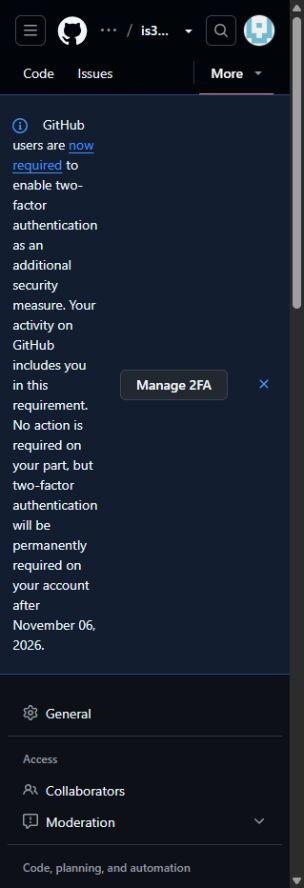
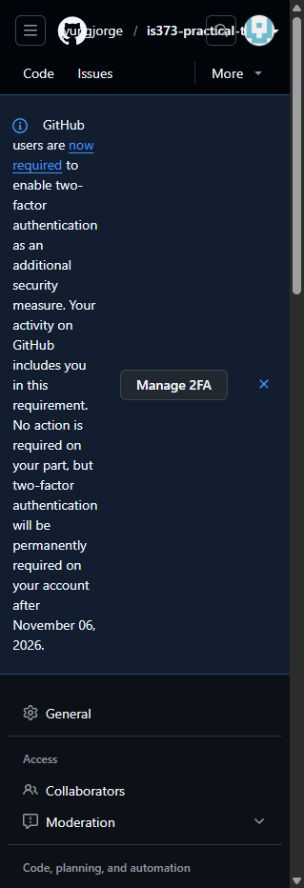
Document verified QA and production deployments with practical test evidence

Changed region(s): [[0.2072, 0.0304, 0.8882, 0.1216], [0.9474, 0.3345, 1.0, 0.3649]]

diff --git a/README.md b/README.md
@@ -24,7 +24,10 @@ does not make the image public.
 
 ## Test Evidence
 
-Replace these placeholders only after observing real results:
+Verified on October 8, 2026. QA was deployed first, then merged into main and
+promoted to production. Both health endpoints returned `{"status":"ok"}` over
+HTTPS with normal certificate verification. The QA test marker is present in
+both environments after promotion.
 
 Repository setup evidence: [public repository](docs/evidence/public-repository.png)
 and [configured secret names](docs/evidence/github-secrets-configured.png).
@@ -34,17 +37,23 @@ The first [deployment workflow](https://github.com/yungjorge/is373-practical-tes
 passed validation, Docker build, and GHCR push, then stopped because deployment
 credentials were not yet configured. This is not a successful deployment.
 
-- Successful QA GitHub Actions run URL: **TODO**
-- Successful production GitHub Actions run URL: **TODO**
-- GitHub Container Registry package URL: [public GHCR package](https://github.com/users/yungjorge/packages/container/package/is373-practical-test), [published production image evidence](docs/evidence/ghcr-production-image.png). Image `prod-a63aeda26a1d34c5af383faf854cea6254d073f2` was published; deployment remains pending.
-- QA deployed commit/tag (`qa-COMMIT_SHA`): **TODO**
-- Production deployed commit/tag (`prod-COMMIT_SHA`): **TODO**
-- QA screenshot showing HTTPS URL: **TODO**
-- Production screenshot showing HTTPS URL: **TODO**
-- SSH-key login screenshot showing non-root username: screenshot **TODO**; [agent-observed key login as jorge](docs/evidence/ssh-access.txt).
-- sshd effective configuration screenshot: [user-supplied effective settings](docs/evidence/ssh-effective-settings.png), showing root/password login disabled and public-key authentication enabled.
-- Root-login rejection screenshot: screenshot **TODO**; [agent-observed root rejection](docs/evidence/ssh-access.txt).
-- QA/production container isolation evidence: **TODO**
+- Successful QA workflow: [run 37821482615](https://github.com/yungjorge/is373-practical-test/actions/runs/37821482615), [screenshot](docs/evidence/qa-workflow-success.png).
+- Successful production workflow: [run 37822058643](https://github.com/yungjorge/is373-practical-test/actions/runs/37822058643), [screenshot](docs/evidence/production-workflow-success.png).
+- GHCR package: [public package](https://github.com/users/yungjorge/packages/container/package/is373-practical-test), [both deployed tags](docs/evidence/ghcr-deployed-tags.png).
+- QA deployed commit: `e30cc9cdfa411ce4ba831852ae342cfc3200552d`; image: `ghcr.io/yungjorge/is373-practical-test:qa-e30cc9cdfa411ce4ba831852ae342cfc3200552d`.
+- Production deployed commit: `f8567e855891bd2e87fbf821755bae98921640fe`; image: `ghcr.io/yungjorge/is373-practical-test:prod-f8567e855891bd2e87fbf821755bae98921640fe`.
+- QA HTTPS page: [live QA](https://qa.104-248-208-29.nip.io), [screenshot](docs/evidence/qa-https.png).
+- Production HTTPS page: [live production](https://104-248-208-29.nip.io), [screenshot](docs/evidence/production-https.png).
+- Non-root SSH: [user-supplied jorge session screenshot](docs/evidence/ssh-effective-settings.png), [agent-observed key login](docs/evidence/ssh-access.txt), [bootstrap verification](docs/evidence/server-bootstrap.txt).
+- Effective sshd configuration: [user-supplied screenshot](docs/evidence/ssh-effective-settings.png), showing root/password login disabled and public-key authentication enabled.
+- Root SSH rejection: [observed rejection transcript](docs/evidence/ssh-access.txt), [screenshot of the recorded transcript](docs/evidence/ssh-observed-transcript.png). This screenshot shows the evidence file, not a live terminal.
+- Container isolation: [QA ID unchanged during production deployment](docs/evidence/service-isolation.txt), [healthy containers, non-root runtime, separate networks, no published port 3000](docs/evidence/deployed-containers.txt).
+- HTTPS certificates: [certificate subjects, Let's Encrypt issuers, and validity dates](docs/evidence/https-certificates.txt).
+
+Source pushes run lint, types, formatting, browser tests, Next.js build, Docker
+build, and GHCR publication before SSH deployment. Any failure stops deployment.
+Main's README/docs-only pushes do not redeploy the application, so the recorded
+image tags remain the versions actually verified above.
 
 ```sh
 ssh USER@SERVER
@@ -70,7 +79,7 @@ ssh -o BatchMode=yes -o PreferredAuthentications=publickey -i ~/.ssh/YOUR_ADMIN_
 Capture `Permission denied (publickey)` and exit status 255, then show successful
 non-root login. A connection timeout does not prove rejection. Follow the
 [guide](docs/cicd-deployment.md#evidence) for the remaining verification commands.
-These entries are placeholders, not claims of successful deployment.
+Evidence distinguishes user-supplied screenshots from agent-observed results.
 
 Your first project in Content Management Systems is to begin building a personal web presence. Use AI to help develop it, Docker to run it consistently, and a discovery process to decide what it should communicate. You should be able to explain both your choices and the work behind them.
 

diff --git a/docs/cicd-deployment.md b/docs/cicd-deployment.md
@@ -241,10 +241,17 @@ SERVER_HOST, SERVER_USER, DOMAIN, and ACME_EMAIL are configured in repository se
 All six repository secrets are now present, including the user-entered private
 key and console-verified server host key. Key login as jorge was verified and a
 root login attempt was rejected. The user-supplied effective-settings screenshot
-is saved under docs/evidence. Server bootstrap remains pending because sudo
-requires the user's password; Docker is absent and /opt/is373 does not yet exist.
-The bootstrap script was uploaded to ~/is373-bootstrap-server.sh on the server.
-HTTPS currently refuses connections on port 443 for both hostnames.
+is saved under docs/evidence. The user completed bootstrap with their sudo
+password; Docker 29.8.2 and Compose v5.6.0 are available to jorge. The agent
+created the server environment with mode 600 and started Traefik on 80/443.
+QA deployment run 37821482615 and production deployment run 37822058643 both
+succeeded. Both HTTPS health endpoints returned {"status":"ok"}; certificate
+issuers are Let's Encrypt. Both app containers are healthy, run as uid 1000,
+use separate networks, and do not publish port 3000. QA's container ID stayed
+unchanged during production deployment. See README Test Evidence for exact
+commits, image tags, URLs, screenshots, and recorded command output.
+README/docs-only pushes on main are excluded from deployment so evidence
+updates preserve the already verified application image tags.
 
 - Direct repository `npm ci` failed with EACCES on its existing node_modules.
   A temporary source copy in /tmp/is373-practical-check used checksum-verified
@@ -269,7 +276,12 @@ HTTPS currently refuses connections on port 443 for both hostnames.
   No dependency or lockfile changes were made; these need a separate review
   before treating the site as hardened production software.
 
-Real HTTPS, SSH, GHCR, and deployment evidence remain manual. Existing portfolio
-edits were preserved. No commits, pushes, deployments, or server changes were
-performed by the agent.
+The failed checks listed above describe the initial local attempt. Subsequent
+local browser tests passed and GitHub workflows verified production Docker
+build/runtime behavior. The agent committed and pushed the existing portfolio,
+deployment setup, QA marker, promotion, and evidence; deployed both environments;
+and preserved existing SSH hardening. No private keys, passwords, or tokens
+were added to repository files. The existing dependency audit findings remain
+unresolved; deployment functionality passes, but dependency upgrades need a
+separate review.
 

diff --git a/docs/project-map.md b/docs/project-map.md
@@ -43,8 +43,11 @@ Production uses https://104-248-208-29.nip.io and QA uses
 https://qa.104-248-208-29.nip.io on the same Ubuntu server, accessed as jorge.
 The qa branch adds a visible “Deployment Status: QA Test” label on the homepage;
 main receives it only after promotion. Both workflows run browser checks serially.
-Real deployment and evidence collection require the Actions SSH key, trusted
-host-key verification, and ACME email. See docs/cicd-deployment.md.
+All required Actions secrets are configured. QA and production were deployed
+successfully and verified over HTTPS on October 8, 2026. README Test Evidence
+contains their exact image tags, workflow URLs, screenshots, SSH evidence, and
+the unchanged QA container ID during production deployment. Main's evidence-only
+commits do not redeploy application images. See docs/cicd-deployment.md.
 
 ## Personal redesign handoff
 
